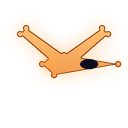
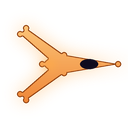
修复敌机下半机翼缺失：敌机朝向为 +X，上下翼应沿水平轴镜像而非左右镜像

Changed region(s): [[0.5, 0.1875, 0.875, 0.4688], [0.125, 0.5312, 0.5312, 0.8125]]

diff --git a/tools/gen_assets.py b/tools/gen_assets.py
@@ -450,7 +450,9 @@ def gen_enemy_plane(kind):
         hull = [(c + ss(58), c), (c - ss(14), c - ss(18)), (c - ss(28), c), (c - ss(14), c + ss(18))]
         wing_l = [(c, c - ss(14)), (c - ss(52), c - ss(40)), (c - ss(58), c - ss(32)), (c - ss(16), c - ss(4))]
 
-    polys = [hull, wing_l, mirror_pts(wing_l, c)]
+    # 敌机朝 +X：上下机翼沿水平轴（y=c）镜像，而不是左右镜像
+    wing_low = [(x, int(2 * c - y)) for (x, y) in wing_l]
+    polys = [hull, wing_l, wing_low]
     if kind == "shooter":  # 前伸炮管
         polys.append([(c + ss(34), c - ss(3)), (c + ss(52), c - ss(3)), (c + ss(52), c + ss(3)), (c + ss(34), c + ss(3))])
 
